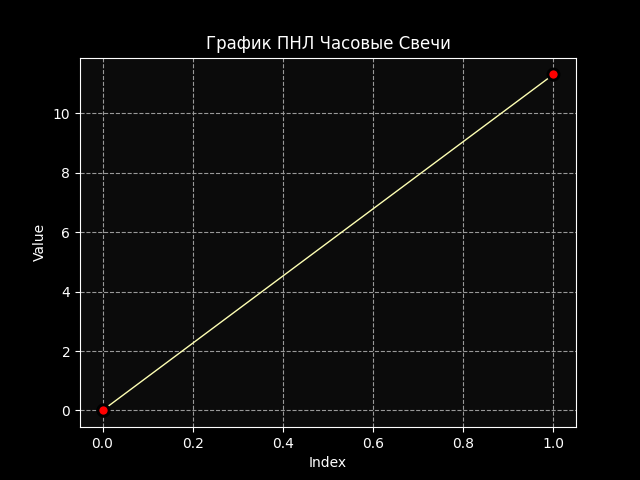
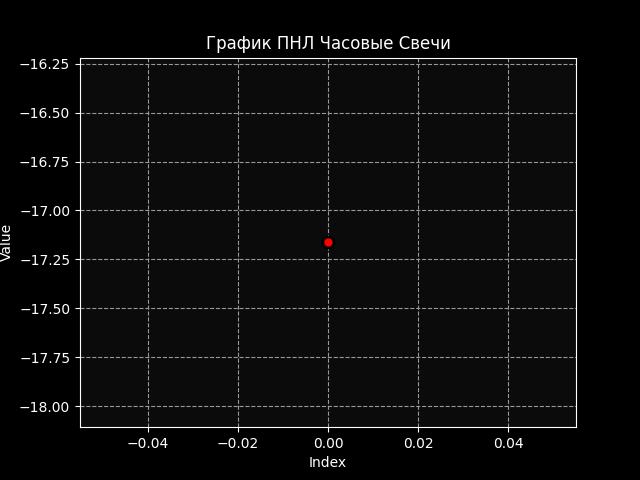
BEST UPDATE

diff --git a/analitic.py b/analitic.py
@@ -62,24 +62,27 @@ def chandelier_exit(df, atr_period=1, atr_multiplier=1.85, use_close=True, await
 
 
 # Основная функция для принятия торговых решений
-def CE(df, symbol):
+def CE(df, symbol, window=-1):
     current_price = df['Close'].iloc[-1]
     chandelier = chandelier_exit(df)
 
     # Проверка и исполнение торговых сигналов
     if chandelier['buy_signal'].iloc[-1]:
-        print(f'{symbol} {chandelier.iloc[-1]}')
+        #print(f'{symbol} {chandelier.iloc[-1]}')
         return {
-                'side': 'buy'
+                'side': 'buy',
+                'ce_direction': chandelier['direction'].iloc[window]
             }
     elif chandelier['sell_signal'].iloc[-1]:
-        print(f'{symbol} {chandelier.iloc[-1]}')
+        #print(f'{symbol} {chandelier.iloc[-1]}')
         return {
-                'side': 'sell'
+                'side': 'sell',
+                'ce_direction': chandelier['direction'].iloc[window]
             }
     else:
         return {
-                'side': 'none'
+                'side': 'none',
+                'ce_direction': chandelier['direction'].iloc[window]
             }
 
 def calculate_williams_r(df, length=21):
@@ -107,31 +110,32 @@ def WILLAMS_R(df, symbol, williams_r_length=21, ema_length=13):
         if len(ema) < 3 or len(williams_r) < 3:
             return {
                 'side': 'none',
-                'overbought': [None, None],
-                'oversold': [None, None]
+                'overbought': [None],
+                'oversold': [None]
             }
 
         overbought_1, oversold_1 = check_conditions(williams_r, ema, -1)
         overbought_2, oversold_2 = check_conditions(williams_r, ema, -2)
+        overbought_3, oversold_3 = check_conditions(williams_r, ema, -3)
 
         #print(f'{overbought_1} - {oversold_1} : {overbought_2} {oversold_2}')
-        if overbought_1 == True and overbought_2 == True:
+        if overbought_1 == True or overbought_2 == True or overbought_3 == True:
             return {
                 'side': 'sell',
-                'overbought': [overbought_1, overbought_2],
-                'oversold': [oversold_1, oversold_2],
+                'overbought': [overbought_1],
+                'oversold': [oversold_1],
                 }
-        elif oversold_1 == True and oversold_2 == True:
+        elif oversold_1 == True or oversold_2 == True or oversold_3 == True:
             return {
                 'side': 'buy',
-                'overbought': [overbought_1, overbought_2],
-                'oversold': [oversold_1, oversold_2]
+                'overbought': [overbought_1],
+                'oversold': [oversold_1]
                 }
         else:
             return {
                 'side': 'none', 
-                'overbought': [overbought_1, overbought_2],
-                'oversold': [oversold_1, oversold_2]
+                'overbought': [overbought_1],
+                'oversold': [oversold_1]
                 }
     except:
         print(f'Error {symbol} as {e}')
@@ -145,34 +149,35 @@ class Strategy:
     def main(self, symbol):
         """ Анализируем """
         try:
-            df = self.bot.klines(symbol, '15', 50)
+            df = self.bot.klines(symbol, 'D', 50)
             williams = WILLAMS_R(df, symbol)
-            chandelier = CE(df, symbol)
+            chandelier_1 = CE(df, symbol, -1)
+            chandelier_2 = CE(df, symbol, -2)
             current_price = df['Close'].iloc[-1]
             #print(f'{symbol} {chandelier} {williams}')
-            if williams['side'] == 'buy' and chandelier['side'] == 'buy':
+            if williams['side'] == 'buy' and chandelier_1['side'] == 'buy' and chandelier_2['ce_direction'] == 1:
                 return {
-                    "side": 'long',
-                    'price': current_price,
-                    'sl': current_price - (current_price / 100),  # Стоп-лосс на уровне ликвидности
-                    'tp': current_price + (current_price / 100)  # Тейк-профит
+                    "side": "long",
+                    "price": current_price,
+                    "direction": chandelier_1['ce_direction']
                 }
 
             # Вход в шорт, если сигналы на всех таймфреймах совпадают
-            elif williams['side'] == 'sell' and chandelier['side'] == 'sell':
+            elif williams['side'] == 'sell' and chandelier_1['side'] == 'sell' and chandelier_2['ce_direction'] == -1:
                 return {
-                    "side": 'short',
-                    'price': current_price,
-                    'sl': current_price + (current_price / 100),  # Стоп-лосс за зоной ликвидности
-                    'tp': current_price - (current_price / 100)  # Тейк-профит
+                    "side": "short",
+                    "price": current_price,
+                    "direction": chandelier_1['ce_direction']
                 }
 
             # Нет сигнала
-            return {"side": "none", "price": current_price}
+            return {
+                    "side": "none", 
+                    "price": current_price,
+                    "direction": chandelier_1['ce_direction']
+                }
 
         except Exception as err:
             print(f'[ERROR]: {symbol} skipped due to {traceback.print_exc()}')
-            print(williams)
-            print(chandelier)
             time.sleep(60)
             return {"side": "none", "price": None}

diff --git a/utils.py b/utils.py
@@ -74,29 +74,25 @@ class Utils(object):
         img = open('candles.png', 'rb')
         self.tg.send_photo(channel_id, img, caption=text, parse_mode='HTML')
 
-    def watcher(self, symbol, side, start_price, tp, sl):
+    def watcher(self, symbol, side, start_price):
         time = datetime.now().timetuple()
         self.pos += 1
         max_pnl = 0
         entry_price = start_price
-        
+        pre_exit = False
+        exit_signal = False
+        #ТУТ БУДЕМ РАСЧИТЫВАТЬ СТОПЛОСС!!!!
+        sleep(90)
         while True:
-            sleep(3)
+            sleep(30)
             
-            # Получаем текущую цену
-            df = self.bot.klines(symbol=symbol, timeframe=60, limit=1)
-            try:
-                current_price = df['Close'].iloc[-1]
-            except:
-                sleep(5)
-                df = self.bot.klines(symbol=symbol, timeframe=60, limit=1)
-                current_price = df['Close'].iloc[-1]
-
+            data = self.strategy.main(symbol)
+            current_price = data['price']
             # Рассчитываем текущий PnL
             if side == 'long':
-                pnl = (current_price - entry_price) / entry_price * 100 * 10  # Плечо 10x
+                pnl = (current_price - entry_price) / entry_price * 100 * leverage  # Плечо 10x
             elif side == 'short':
-                pnl = (entry_price - current_price) / entry_price * 100 * 10
+                pnl = (entry_price - current_price) / entry_price * 100 * leverage
             else:
                 pnl = 0
 
@@ -105,22 +101,29 @@ class Utils(object):
                 max_pnl = pnl
 
             # Проверка на выход по стоп-лоссу или тейк-профиту
-            exit_signal = False
+            
             if side == 'long':
-                if current_price <= sl or current_price >= tp:
-                    exit_signal = True
-            elif side == 'short':
-                if current_price >= sl or current_price <= tp:
-                    exit_signal = True
+                if data['direction'] == -1:
+                    if pre_exit == True:
+                        exit_signal = True
+                    else:
+                        pre_exit = True
+                else: 
+                    pre_exit = False
 
-            # Проверяем стратегию на наличие сигнала для выхода (Chandelier Exit)
-            '''
-            long_ce, short_ce = self.strategy.chandelier_exit(df)
-            if side == 'long' and current_price > long_ce.iloc[-1]:
-                exit_signal = True
-            if side == 'short' and current_price < short_ce.iloc[-1]:
-                exit_signal = True
-                '''
+            elif side == 'short':
+                if data['direction'] == 1:
+                    if pre_exit == True:
+                        exit_signal = True
+                    else:
+                        pre_exit = True
+                else:
+                    pre_exit = False
+
+            if pnl < (max_pnl - 20):
+                exit_signal = True 
+            
+
             # Если сработал сигнал выхода, закрываем позицию
             if exit_signal:
                 icon = '✅' if pnl > 0 else '❌'

diff --git a/main.py b/main.py
@@ -48,23 +48,23 @@ pprint(blacklist)
 while True:
     if balance != None: #and float(balance) > qty/leverage:
 
-        balance = float(balance)
-        pos = bot.get_positions()
-        if len(pos) < max_pos:
+        #balance = float(balance)
+        #pos = bot.get_positions()
+        if 1:#len(pos) < max_pos:
 
             # Checking every symbol from the symbols list:
             for symbol in symbols:
                 if symbol not in utils.poss and symbol not in blacklist['long'] and symbol not in blacklist['short']:
                     try:
-                        pos = bot.get_positions()
+                        #pos = bot.get_positions()
                         
                         data = analitic.main(symbol=symbol)
                         
                         if data['side'] == 'long':
                             utils.poss.append(symbol)
                             print(f'[+] {symbol}: long')
-                            th.Thread(target=utils.watcher, args=(symbol, data['side'], data['price'], data['tp'], data['sl'])).start()
-                            utils.draw(symbol=symbol, text=f'<b>[+] LONG</b> <code>{symbol}</code>\n<b>price</b> <code>{round(data["price"], 7)}</code>\n<b>sl</b> <code>{round(data["sl"],7)}</code>\n<b>tp</b> <code>{round(data["tp"],7)}</code>', price1=data["price"])
+                            th.Thread(target=utils.watcher, args=(symbol, data['side'], data['price'])).start()
+                            utils.draw(symbol=symbol, text=f'<b>[+] LONG</b> <code>{symbol}</code>\n<b>price</b> <code>{round(data["price"], 7)}</code>', price1=data["price"])
                             #bot.set_mode(symbol)
                             #sleep(2)
                             #bot.place_order_market(symbol, 'buy')
@@ -74,8 +74,8 @@ while True:
                         if data['side'] == 'short':
                             utils.poss.append(symbol)
 
-                            th.Thread(target=utils.watcher, args=(symbol, data['side'],  data['price'], data['tp'], data['sl'])).start()
-                            utils.draw(symbol=symbol, text=f'<b>[+] SHORT</b> <code>{symbol}</code>\n<b>price</b> <code>{round(data["price"], 7)}</code>\n<b>sl</b> <code>{round(data["sl"],7)}</code>\n<b>tp</b> <code>{round(data["tp"],7)}</code>', price1=data["price"])
+                            th.Thread(target=utils.watcher, args=(symbol, data['side'],  data['price'])).start()
+                            utils.draw(symbol=symbol, text=f'<b>[+] SHORT</b> <code>{symbol}</code>\n<b>price</b> <code>{round(data["price"], 7)}</code>', price1=data["price"])
                             #bot.set_mode(symbol)
                             #sleep(2)
                             #bot.place_order_market(symbol, 'sell')
